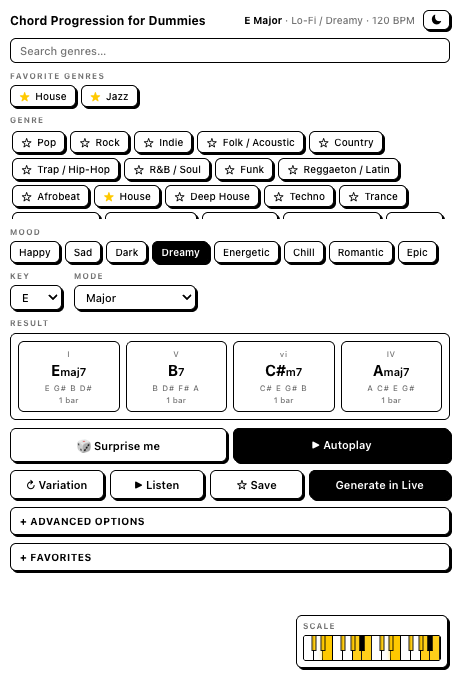
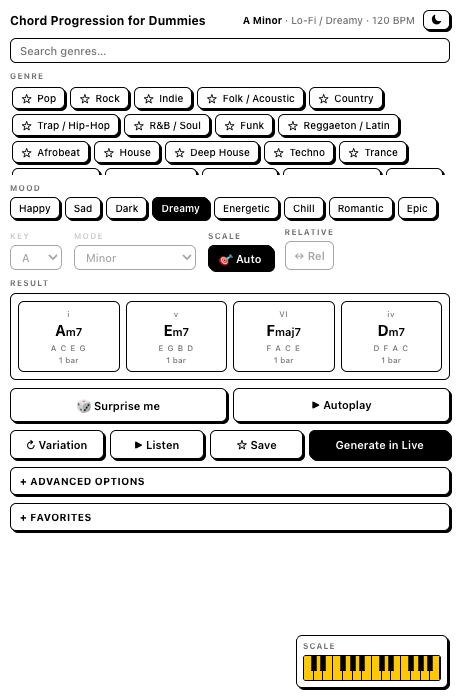
feat: auto-detect scale (locks Key/Mode) + relative major/minor
- Auto-detect: read the scale from Live (root + mode), greying out and
  disabling the Key/Mode pickers (and Relative) while active; persisted
  in session
- Relative button: flip to the relative major/minor (C Major <-> A Minor)
- Add .btn:disabled styling; grow dialog to 460x700

diff --git a/src/interface.html b/src/interface.html
@@ -97,6 +97,9 @@
     .row { display: flex; gap: 12px; flex-wrap: wrap; align-items: flex-end; }
     .field { display: flex; flex-direction: column; gap: 4px; }
     select { height: 25px; padding: 0 7px; outline: none; }
+    select:disabled { opacity: 0.35; cursor: not-allowed; box-shadow: none; }
+    .field.locked .label { opacity: 0.35; }
+    #autodetect { height: 25px; padding: 0 10px; }
 
     /* Scale piano — floating corner badge ("ad"), 2 octaves, blinking yellow scale */
     .piano-ad {
@@ -134,6 +137,7 @@
     .btn.playing { background: var(--ink); color: var(--paper); }
     .btn.saved { color: var(--star); }
     .btn[aria-pressed="true"] { background: var(--ink); color: var(--paper); }
+    .btn:disabled { opacity: 0.35; cursor: not-allowed; box-shadow: none; pointer-events: none; }
     .toolbar2 { display: grid; grid-template-columns: 1fr 1fr; gap: 6px; margin-top: 8px; }
 
     /* Disclosure panels */
@@ -182,13 +186,21 @@
   <div class="chips" id="moods"></div>
 
   <div class="row" style="margin-top:8px">
-    <div class="field">
+    <div class="field" id="field-key">
       <span class="label" style="margin:0">Key</span>
       <select id="key"></select>
     </div>
-    <div class="field">
+    <div class="field" id="field-mode">
       <span class="label" style="margin:0">Mode</span>
       <select id="mode"></select>
+    </div>
+    <div class="field">
+      <span class="label" style="margin:0">Scale</span>
+      <button class="btn" id="autodetect" aria-pressed="false" title="Use the scale set in Live (locks Key + Mode)" aria-label="Auto-detect scale from Live">🎯 Auto</button>
+    </div>
+    <div class="field">
+      <span class="label" style="margin:0">Relative</span>
+      <button class="btn" id="relative" title="Switch to the relative major / minor" aria-label="Switch to relative major or minor">↔ Rel</button>
     </div>
   </div>
 
@@ -391,6 +403,7 @@
     let advanced = {};   // user overrides; keys: articulation, voicing, octaves, density, gate, swing, intensity, humanize
     let adsrOn = false;
     let autoplay = false;
+    let autoDetect = false;
 
     function genre() { return GENRES.find(g => g.id === genreId); }
     function mood() { return MOODS.find(m => m.id === moodId); }
@@ -744,7 +757,52 @@
     function maybeAutoplay() { if (autoplay) preview(); }
 
     function snapshotSession() {
-      FAV.session = { genre: genreId, mood: moodId, root, mode: modeName, advanced, autoplay };
+      FAV.session = { genre: genreId, mood: moodId, root, mode: modeName, advanced, autoplay, autoDetect };
+    }
+
+    // Detect the key + mode from Live's current scale snapshot.
+    const SCALE_ALIAS = { Ionian: "Major", Aeolian: "Minor", "Natural Minor": "Minor" };
+    function matchMode(intervals) {
+      if (!Array.isArray(intervals)) return null;
+      const a = JSON.stringify(intervals);
+      for (const [name, vals] of Object.entries(MODES)) if (JSON.stringify(vals) === a) return name;
+      return null;
+    }
+    function detectScale() {
+      const r = ((LIVE.rootNote % 12) + 12) % 12;
+      let mode = "Major";
+      const name = LIVE.scaleName;
+      if (name && MODES[name]) mode = name;
+      else if (name && SCALE_ALIAS[name] && MODES[SCALE_ALIAS[name]]) mode = SCALE_ALIAS[name];
+      else mode = matchMode(LIVE.scaleIntervals) || "Major";
+      return { root: r, mode };
+    }
+
+    function applyAutoDetect(on) {
+      autoDetect = on;
+      const keySel = document.getElementById("key");
+      const modeSel = document.getElementById("mode");
+      const relBtn = document.getElementById("relative");
+      const btn = document.getElementById("autodetect");
+      btn.setAttribute("aria-pressed", String(on));
+      if (on) {
+        const d = detectScale();
+        root = d.root; modeName = d.mode;
+        keySel.value = String(root); modeSel.value = modeName;
+      }
+      keySel.disabled = on; modeSel.disabled = on; relBtn.disabled = on;
+      document.getElementById("field-key").classList.toggle("locked", on);
+      document.getElementById("field-mode").classList.toggle("locked", on);
+      pinnedTemplate = null; stopPreview(); renderAll(); maybeAutoplay();
+    }
+
+    function toRelative() {
+      if (autoDetect) return;
+      if (modeName === "Major") { root = (root + 9) % 12; modeName = "Minor"; }
+      else { root = (root + 3) % 12; modeName = "Major"; }
+      document.getElementById("key").value = String(root);
+      document.getElementById("mode").value = modeName;
+      pinnedTemplate = null; stopPreview(); renderAll(); maybeAutoplay();
     }
 
     function surprise() {
@@ -797,6 +855,7 @@
       if (s.mode && MODES[s.mode]) modeName = s.mode;
       if (s.advanced && typeof s.advanced === "object") advanced = { ...s.advanced };
       if (typeof s.autoplay === "boolean") autoplay = s.autoplay;
+      if (typeof s.autoDetect === "boolean") autoDetect = s.autoDetect;
     }
 
     Object.keys(ADV_GROUPS).forEach(buildAdvGroup);
@@ -826,6 +885,8 @@
     document.getElementById("save").addEventListener("click", doSaveProgression);
     document.getElementById("generate").addEventListener("click", doGenerate);
     document.getElementById("surprise").addEventListener("click", surprise);
+    document.getElementById("autodetect").addEventListener("click", () => applyAutoDetect(!autoDetect));
+    document.getElementById("relative").addEventListener("click", toRelative);
 
     const autoplayBtn = document.getElementById("autoplay");
     autoplayBtn.setAttribute("aria-pressed", String(autoplay));
@@ -865,6 +926,7 @@
     initSelectors();
     renderAll();
     renderFavList();
+    if (autoDetect) applyAutoDetect(true);
   </script>
 </body>
 </html>

diff --git a/src/extension.ts b/src/extension.ts
@@ -15,7 +15,7 @@ import interfaceHtml from "./interface.html";
 
 const MAJOR_SCALE = [0, 2, 4, 5, 7, 9, 11];
 const DIALOG_WIDTH = 460;
-const DIALOG_HEIGHT = 680;
+const DIALOG_HEIGHT = 700;
 const FAVORITES_FILE = "favorites.json";
 const ADSR_PARAMS = ["Attack", "Decay", "Sustain", "Release"] as const;
 
